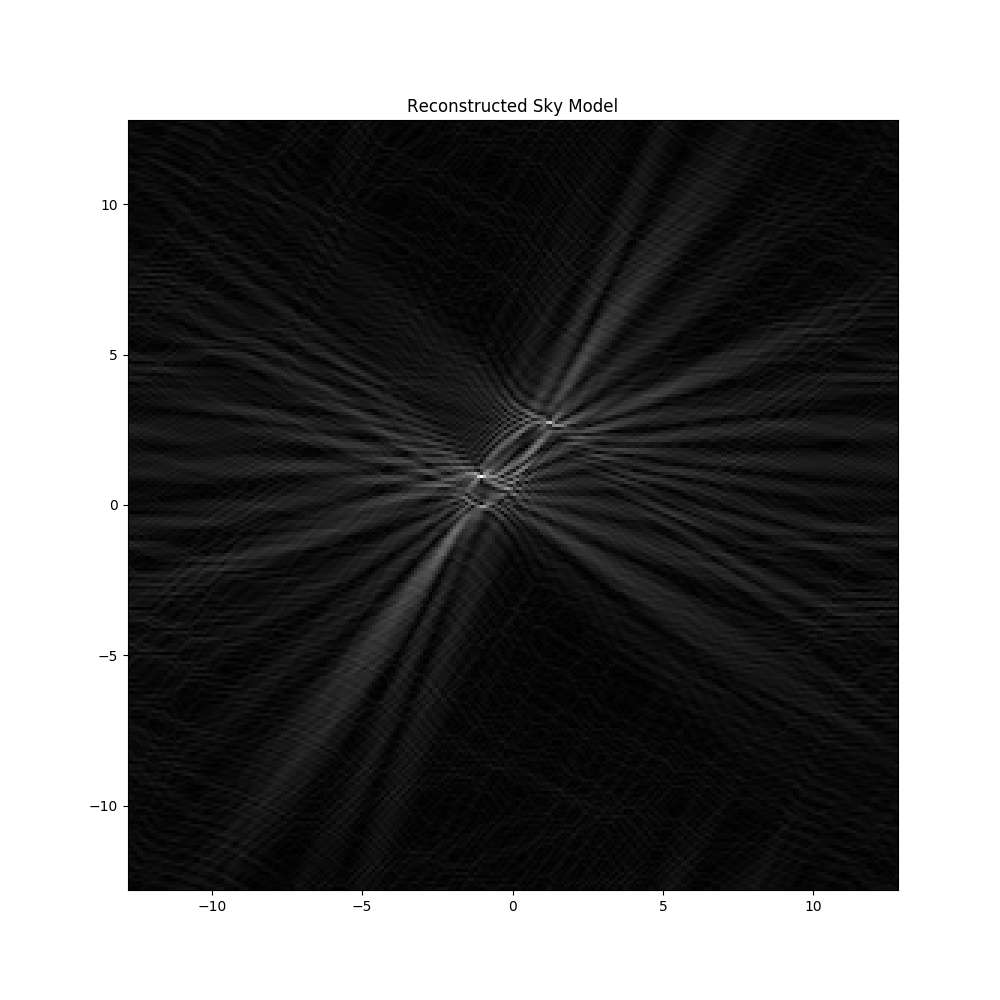
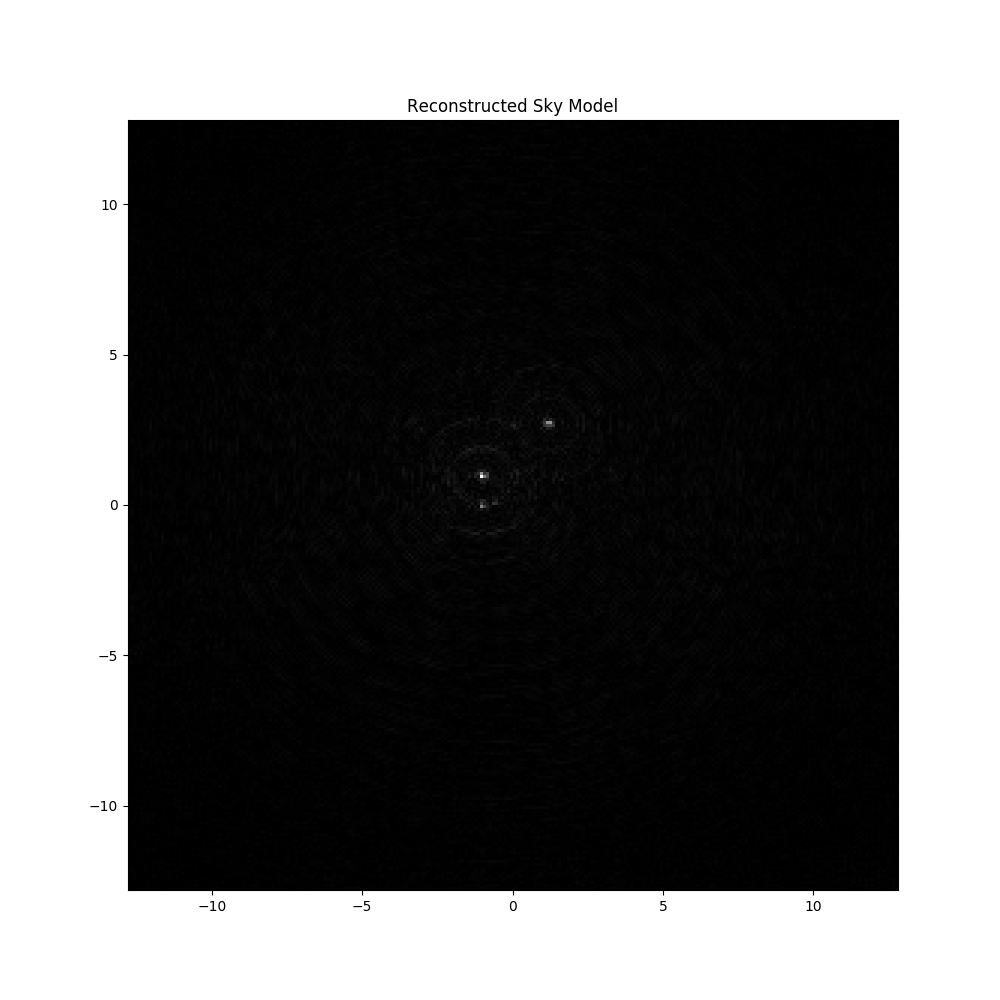
KAT7 is giving issues but the imager works better now

diff --git a/html/index.html b/html/index.html
@@ -149,9 +149,9 @@
          <div class="col-sm-6 gr">
            <img src="static/TARTAntennaLayout.png" alt="antenna layout" id=antenna  width="512" height="400">
          </div>
-         <div class="col-sm-6 gr">
+         <!-- <div class="col-sm-6 gr">
            <img src="static/TARTUVCoverage.png" alt="baseline image" id=T_uv width="400" height="400">
-         </div> <br>
+         </div> <br> -->
          <div class="gr">
            <img src="static/Antenna_Visibilities.png" alt="visibilities" id=visibilities width="512" height="384">
          </div>

diff --git a/Utilities.py b/Utilities.py
@@ -116,7 +116,20 @@ def get_uv_tracks(b_ENU, L, f, h, dec):
     v_d = lam**(-1)*(-np.sin(dec)*np.cos(h)*X+np.sin(dec)*np.sin(h)*Y+np.cos(dec)*Z)
     return u_d, v_d
 
-def plot_visibilities(b_ENU, L, f, h0, h1, model_name, cos):
+def get_uv_and_tracks(b_ENU, L, f, h, dec, point_sources):
+    u_d, v_d = get_uv_tracks(b_ENU, L, f, h, dec)
+    step_size = 200
+    u = np.linspace(-1*(np.amax(np.abs(u_d)))-10, np.amax(np.abs(u_d))+10, num=step_size, endpoint=True)
+    v = np.linspace(-1*(np.amax(abs(v_d)))-10, np.amax(abs(v_d))+10, num=step_size, endpoint=True)
+    uu, vv = np.meshgrid(u, v)
+    uv_tracks = plot_sampled_visibilities(point_sources, u_d, v_d)
+    uv = []
+    for i in range(len(u_d)):
+        uv.append([u_d[i], v_d[i]])
+    uv = np.array(uv)
+    return uv, u_d, v_d, uu, vv, uv_tracks
+
+def plot_visibilities(b_ENU, L, f, h0, h1, model_name, cos, layout):
     h = np.linspace(h0,h1,num=600)*np.pi/12
     model = Tigger.load(model_name)
 ############################################################
@@ -167,11 +180,20 @@ def plot_visibilities(b_ENU, L, f, h0, h1, model_name, cos):
     # Z = B[2]
     # u_d = lam**(-1)*(np.sin(h)*X+np.cos(h)*Y)
     # v_d = lam**(-1)*(-np.sin(dec)*np.cos(h)*X+np.sin(dec)*np.sin(h)*Y+np.cos(dec)*Z)
-    u_d, v_d = get_uv_tracks(b_ENU, L, f, h, dec)
-    step_size = 200
-    u = np.linspace(-1*(np.amax(np.abs(u_d)))-10, np.amax(np.abs(u_d))+10, num=step_size, endpoint=True)
-    v = np.linspace(-1*(np.amax(abs(v_d)))-10, np.amax(abs(v_d))+10, num=step_size, endpoint=True)
-    uu, vv = np.meshgrid(u, v)
+
+    # u_d, v_d = get_uv_tracks(b_ENU, L, f, h, dec)
+    # step_size = 200
+    # u = np.linspace(-1*(np.amax(np.abs(u_d)))-10, np.amax(np.abs(u_d))+10, num=step_size, endpoint=True)
+    # v = np.linspace(-1*(np.amax(abs(v_d)))-10, np.amax(abs(v_d))+10, num=step_size, endpoint=True)
+    # uu, vv = np.meshgrid(u, v)
+    # uv_tracks = plot_sampled_visibilities(point_sources, u_d, v_d)
+    # uv = []
+    # for i in range(len(u_d)):
+    #     uv.append([u_d[i], v_d[i]])
+    # uv = np.array(uv)
+
+    uv, u_d, v_d, uu, vv, uv_tracks = get_uv_and_tracks(b_ENU, L, f, h, dec, point_sources)
+
     zz = np.zeros(uu.shape).astype(complex)
     s = point_sources.shape
     for counter in range(0, s[0]):
@@ -204,20 +226,24 @@ def plot_visibilities(b_ENU, L, f, h0, h1, model_name, cos):
     plt.savefig('Plots/Visibilities.png', transparent=True)
     plt.close()
 
-    uv_tracks = plot_sampled_visibilities(point_sources, u_d, v_d)
-    uv = []
-    for i in range(len(u_d)):
-        uv.append([u_d[i], v_d[i]])
-    uv = np.array(uv)
+    all_uv_tracks = []
+    all_uv = []
 
-    return uv, uv_tracks, dec_0
+    for i in range(len(layout)):
+        for j in range(i+1, len(layout)):
+            b = layout[j] - layout[i]
+            uv, u_d, v_d, uu, vv, uv_tracks = get_uv_and_tracks(b, L, f, h, dec, point_sources)
+            all_uv.append(uv)
+            all_uv_tracks.append(uv_tracks)
+
+    return all_uv, all_uv_tracks, dec_0
 
 
 def image(uv, uv_tracks, cell_size, cos, dec_0):
     c_s = float(cell_size)
     cell_size_l = c_s
     cell_size_m = c_s
-    degrees_l = 4 #should determine through sky model
+    degrees_l = 4 # should determine through sky model
     degrees_m = 4
     Nl = int(np.round(degrees_l / cell_size_l))
     Nm = int(np.round(degrees_m / cell_size_m))
@@ -228,11 +254,7 @@ def image(uv, uv_tracks, cell_size, cos, dec_0):
     cell_size_u = 1 / (2 * Nl * rad_d_l)
     cell_size_v = 1 / (2 * Nm * rad_d_m)
 
-    scaled_uv = np.copy(uv)
-    scaled_uv[:,0] *= np.deg2rad(cell_size_l * Nl)
-    scaled_uv[:,1] *= np.deg2rad(cell_size_m * Nm)
-
-    gridded = grid(Nl, Nm, uv_tracks, cell_size_u, cell_size_v, scaled_uv)
+    gridded = grid(Nl, Nm, uv_tracks, cell_size_u, cell_size_v, uv, cell_size_l, cell_size_m)
 
     if cos == "1":
         L = np.cos(dec_0) * np.sin(0)
@@ -253,21 +275,27 @@ def find_closest_power_of_two(number):
         else:
             s *= 2
 
-def grid(Nl, Nm, uv_tracks, d_u, d_v, uv):
+def grid(Nl, Nm, uv_tracks, d_u, d_v, uv, cell_size_l, cell_size_m):
     vis = np.zeros((Nl, Nm), dtype=complex)
     counter = np.zeros((Nl, Nm))
     positions = np.empty((Nl, Nm), dtype=object)
     half_l = int(Nl / 2)
     half_m = int(Nm / 2)
-    o_d_u = d_u
-    o_d_v = d_v
+    # is this doing anything
     for i in range(len(positions)):
         for j in range(len(positions[i])):
             positions[i][j] = (i - half_l, j - half_m)
+
     for i in range(len(uv)):
-        y,x = int(np.round(uv[i][0])), int(np.round(uv[i][1])) # why is it flipped, a question to ask dr Grobler perhaps
-        vis[x][y] += uv_tracks[i]
-        counter[x][y] += 1
+        scaled_uv = np.copy(uv[i])
+        scaled_uv[:,0] *= np.deg2rad(cell_size_l * Nl)
+        scaled_uv[:,1] *= np.deg2rad(cell_size_m * Nm)
+
+        for j in range(len(scaled_uv)):
+            y,x = int(np.round(scaled_uv[j][0])), int(np.round(scaled_uv[j][1])) # why is it flipped, a question to ask dr Grobler perhaps
+            vis[x][y] += uv_tracks[i][j]
+            counter[x][y] += 1
+
     for i in range(len(vis)):
         for j in range(len(vis[i])):
             if not counter[i][j] == 0:

diff --git a/Pipeline.py b/Pipeline.py
@@ -55,7 +55,7 @@ class pipeline(object):
                 json_antenna = json.load(outfile)
             custom_layout = np.array(json_antenna['antennas'])
             ut.plot_array(custom_layout, "Custom")
-            b12 = custom_layout[bl_2] - custom_layout[bl_1]
+            b = custom_layout[bl_2] - custom_layout[bl_1]
             custom_L = json_antenna['latitude']
             custom_L = (np.pi/180)* (custom_L[0] + custom_L[1]/60. + custom_L[2]/3600.)
             custom_f = json_antenna['frequency']
@@ -65,8 +65,9 @@ class pipeline(object):
             dec = json_antenna['center_dec']
             dec = dec[0] + dec[1]/60. + dec[2]/3600.
             # asc = json_antenna['center_asc']
-            ut.plot_baseline(b12, custom_L, custom_f, sha, eha, dec, "CUSTOM")
-            uv, uv_tracks, dec_0 = ut.plot_visibilities(b12, custom_L, custom_f, sha, eha, "Sky_Models/" + lsm_file, cos)
+            ut.plot_baseline(b, custom_L, custom_f, sha, eha, dec, "CUSTOM")
+            uv, uv_tracks, dec_0 = ut.plot_visibilities(b, custom_L, custom_f, sha, eha, "Sky_Models/" + lsm_file, cos, custom_layout)
+            # change image method to accept all baselines and grid them all
             ut.image(uv, uv_tracks, cell_size, cos, dec_0)
 
     @cherrypy.expose
@@ -76,10 +77,10 @@ class pipeline(object):
         visibilities = self.make_vis_matrix()
         ut.plot_array(layout, "TART")
         b = layout[1] - layout[0] #choose baseline later
+        # need dec0 as well as starting and ending hour angle
         # ut.plot_baseline(b, L, f, , "TART")
         # h = np.linspace(h0,h1,num=600)*np.pi/12
-        # need dec0 as well
-        # u_d, v_d =  ut.get_uv_tracks(b, L, f)
+        u_d, v_d =  ut.get_uv_tracks(b, L, f, 0, L)
         # uv_tracks = ut.plot_sampled_visibilities(point_sources, u_d, v_d)
         # uv = []
         # for i in range(len(u_d)):
